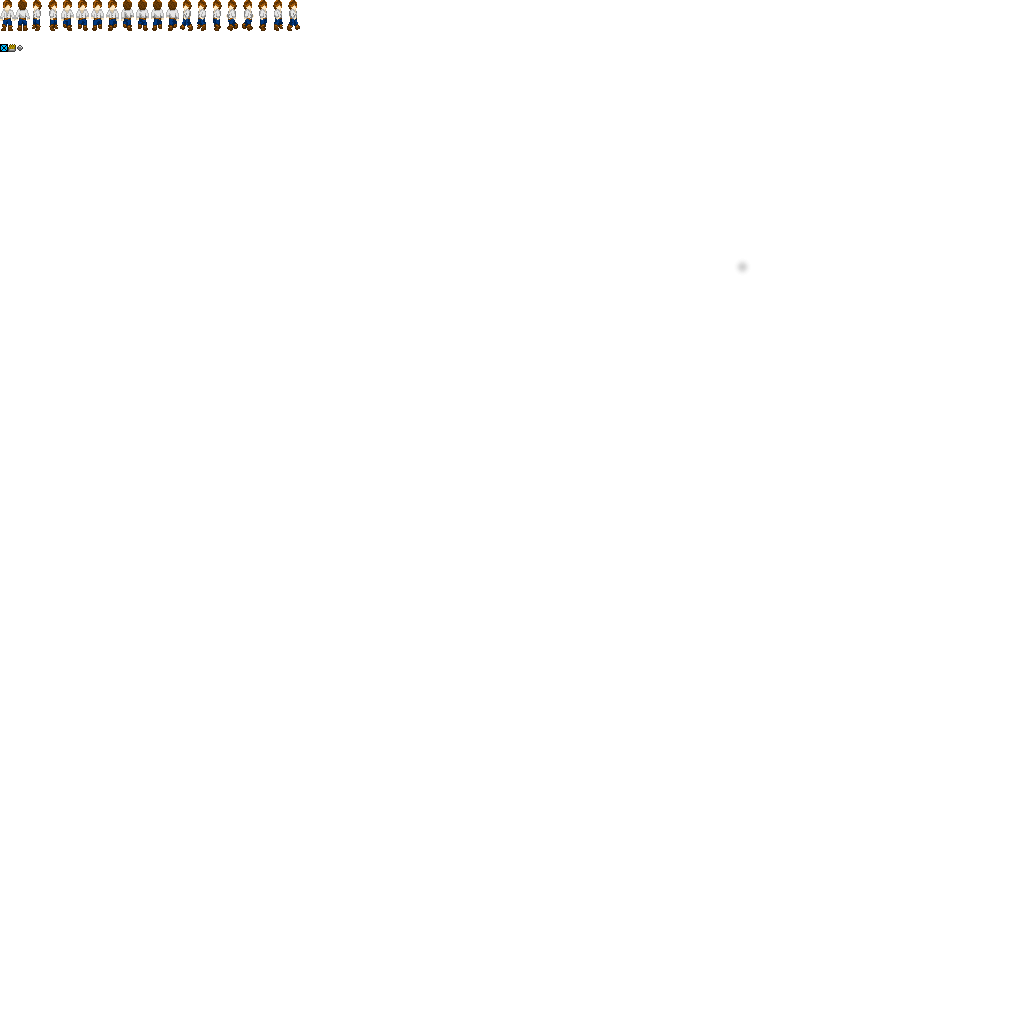
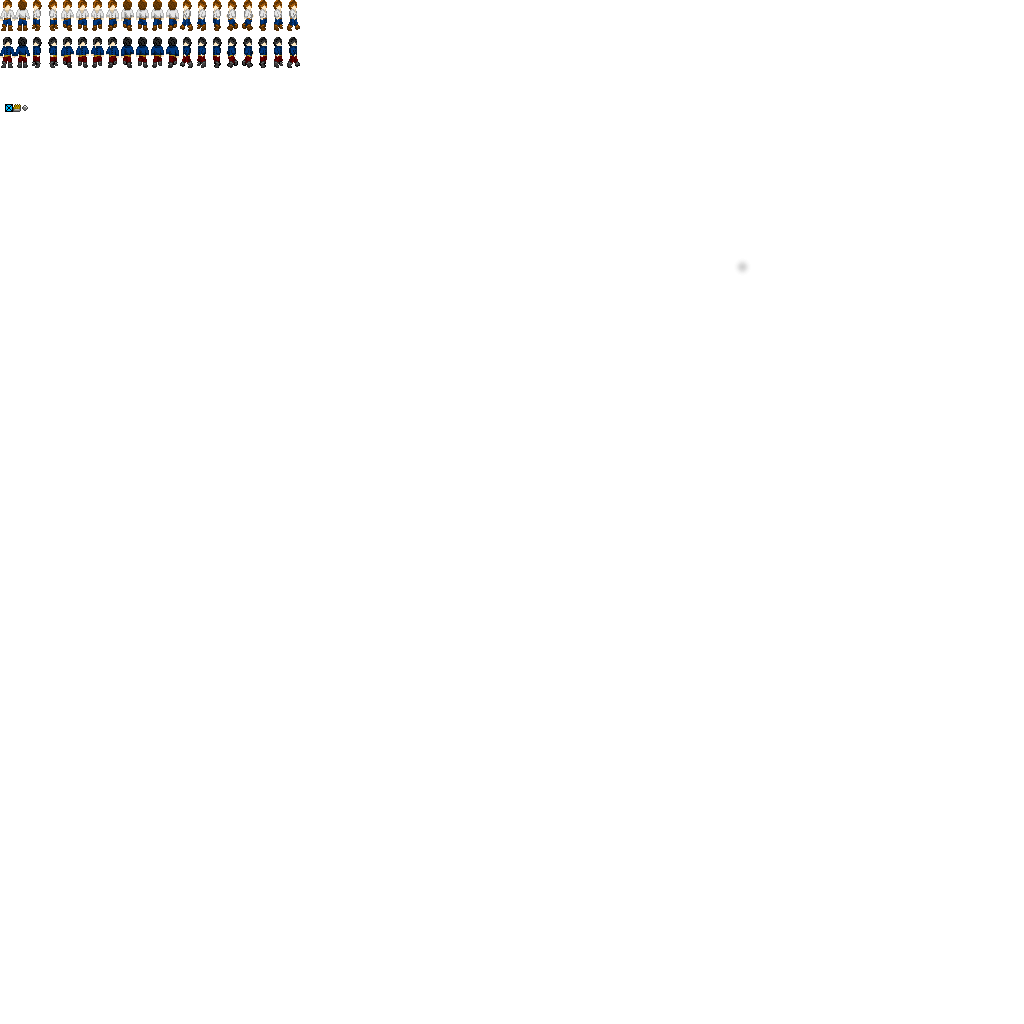
Added player clone

Changed region(s): [[0.0, 0.0312, 0.3125, 0.0625], [0.0, 0.0938, 0.0312, 0.125]]

diff --git a/src/ogam1014/entity/Thief.java b/src/ogam1014/entity/Thief.java
@@ -3,6 +3,7 @@ package ogam1014.entity;
 import java.awt.Point;
 
 import ogam1014.equipment.ItemFactory;
+import ogam1014.graphics.Renderer;
 
 public class Thief extends Enemy {
 	private static final long serialVersionUID = 8877449123438883245L;
@@ -49,8 +50,100 @@ public class Thief extends Enemy {
 			dx = 0;
 			dy = 0;
 		}
+		if (dy == 0){
+			if (dx > 0){
+				dir = Direction.RIGHT;
+			} else if (dx < 0){
+				dir = Direction.LEFT;
+			} else {
+				dir = Direction.DOWN;
+			}
+		} else {
+			if (dy > 0){
+				dir = Direction.DOWN;
+			} else {
+				dir = Direction.UP;
+			}
+		}
 	}
 
+	@Override
+	public void draw(Renderer r) {
+		if (Math.abs(dx) > 0 || Math.abs(dy) > 0 ){
+			if (dir == Direction.UP){
+				int frameNumber = (int)(Math.ceil(time*8) % 6);
+				if (frameNumber == 37){
+					r.blit(IMAGE, x, y, w, h, 120, 37);
+				} else if (frameNumber == 1){
+					r.blit(IMAGE, x, y, w, h, 135, 37);
+				} else if (frameNumber == 2){
+					r.blit(IMAGE, x, y, w, h, 150, 37);
+				} else if (frameNumber == 3){
+					r.blit(IMAGE, x, y, w, h, 165, 37);
+				} else if (frameNumber == 4){
+					r.blit(IMAGE, x, y, w, h, 150, 37);
+				} else {
+					r.blit(IMAGE, x, y, w, h, 135, 37);
+				}
+			} else if (dir == Direction.LEFT) {
+				int frameNumber = (int)(Math.ceil(time*8) % 6);
+				if (frameNumber == 37){
+					r.blit(IMAGE, x, y, w, h, 180, 37);
+				} else if (frameNumber == 1){
+					r.blit(IMAGE, x, y, w, h, 195, 37);
+				} else if (frameNumber == 2){
+					r.blit(IMAGE, x, y, w, h, 210, 37);
+				} else if (frameNumber == 3){
+					r.blit(IMAGE, x, y, w, h, 225, 37);
+				} else if (frameNumber == 4){
+					r.blit(IMAGE, x, y, w, h, 210, 37);
+				} else {
+					r.blit(IMAGE, x, y, w, h, 195, 37);
+				}
+			} else if (dir == Direction.RIGHT) {	
+				int frameNumber = (int)(Math.ceil(time*8) % 6);
+				if (frameNumber == 37){
+					r.blit(IMAGE, x, y, w, h, 240, 37);
+				} else if (frameNumber == 1){
+					r.blit(IMAGE, x, y, w, h, 255, 37);
+				} else if (frameNumber == 2){
+					r.blit(IMAGE, x, y, w, h, 270, 37);
+				} else if (frameNumber == 3){
+					r.blit(IMAGE, x, y, w, h, 285, 37);
+				} else if (frameNumber == 4){
+					r.blit(IMAGE, x, y, w, h, 270, 37);
+				} else {
+					r.blit(IMAGE, x, y, w, h, 255, 37);
+				}
+			} else {
+				int frameNumber = (int)(Math.ceil(time*8) % 6);
+				if (frameNumber == 37){
+					r.blit(IMAGE, x, y, w, h, 60, 37);
+				} else if (frameNumber == 1){
+					r.blit(IMAGE, x, y, w, h, 75, 37);
+				} else if (frameNumber == 2){
+					r.blit(IMAGE, x, y, w, h, 90, 37);
+				} else if (frameNumber == 3){
+					r.blit(IMAGE, x, y, w, h, 105, 37);
+				} else if (frameNumber == 4){
+					r.blit(IMAGE, x, y, w, h, 90, 37);
+				} else {
+					r.blit(IMAGE, x, y, w, h, 75, 37);
+				}
+			}
+		} else {
+			if (dir == Direction.UP){
+				r.blit(IMAGE, x, y, w, h, 15, 37);
+			} else if (dir == Direction.LEFT) {
+				r.blit(IMAGE, x, y, w, h, 30, 37);
+			} else if (dir == Direction.RIGHT) {	
+				r.blit(IMAGE, x, y, w, h, 45, 37);
+			} else {
+				r.blit(IMAGE, x, y, w, h, 0, 37);
+			}
+		}
+	}
+	
 	@Override
 	protected void onDeath() {
 		super.onDeath();
